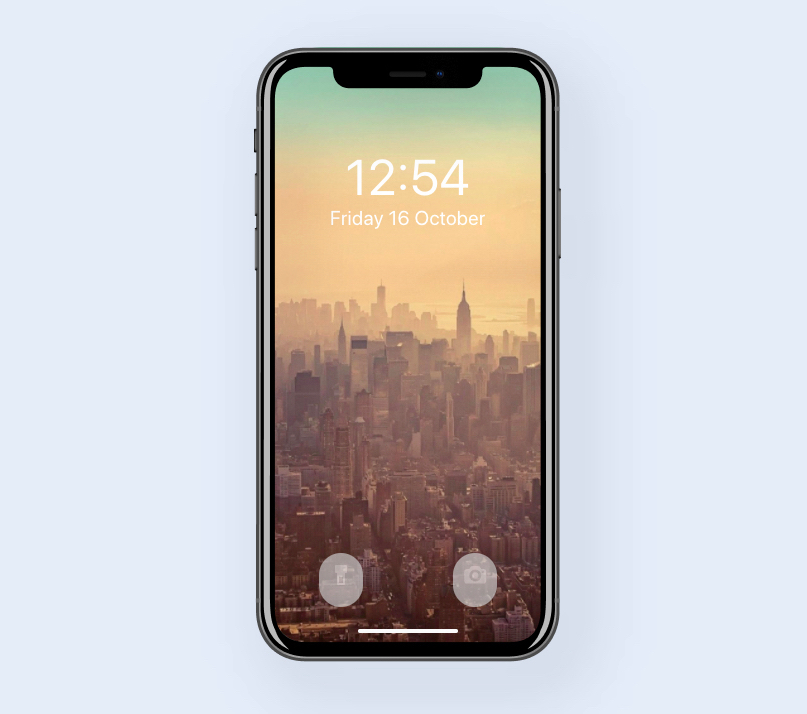
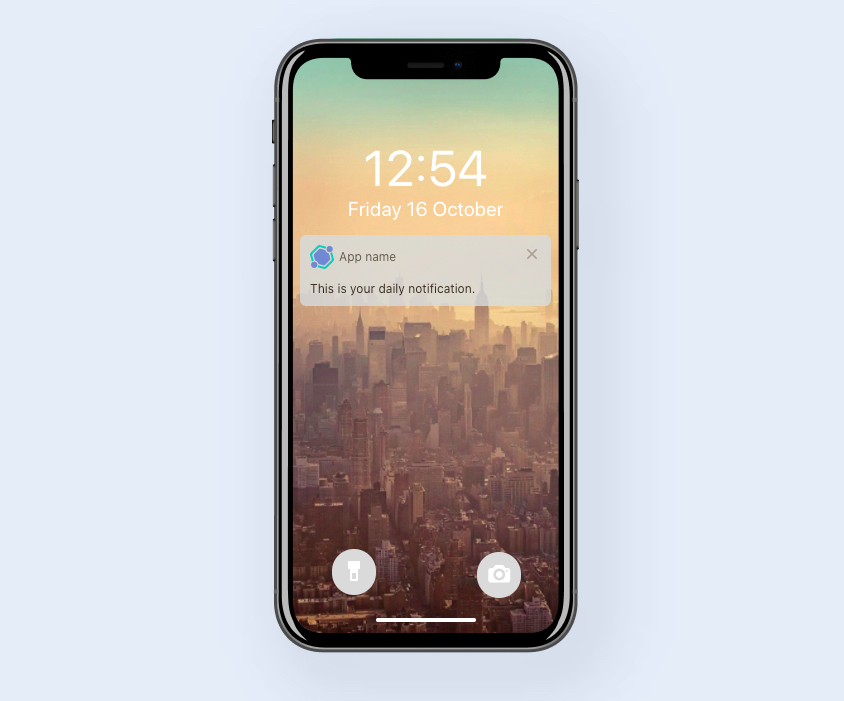
Completed week2- notification

Changed region(s): [[0.3098, 0.03, 0.7125, 0.9287], [0.5886, 0.6291, 0.6196, 0.689], [0.4957, 0.7789, 0.5266, 0.8088]]

diff --git a/src/components/week2/index.js b/src/components/week2/index.js
@@ -36,8 +36,6 @@ const Intersection = styled.div`
    position: relative;
    display: flex;
    flex-direction: column;
-   justify-content: flex-start;
-   padding-top: 100px;
    width: 100%;
    height: 100%;
 `;
@@ -47,7 +45,7 @@ const StyledIphone = styled.img`
     position: absolute;
     top: 0;
     right: 0;
-    z-index: 5;
+    z-index: 0;
 `;
 
 const Wallpaper = styled.img`
@@ -60,6 +58,11 @@ const Wallpaper = styled.img`
     border-radius: 60px;
     object-fit: cover;
 `; 
+
+const TopSection = styled.div`
+    padding-top:100px;
+`;
+
 const ClockDiv = styled.div`
     position:relative;
     font-size: 50px;
@@ -87,15 +90,22 @@ const FunctionButtonsSection = styled.div`
 const CameraButton = styled.a`
     padding: 10px 10px;
     background-color: #dadada;
-    opacity: 0.6;
+    // opacity: 0.6;
     border-radius: 100px;
+    line-height: 100%;
+    position: absolute;
+    bottom: 55px;
+    right: 19%;
 `;
 
 const FlashlightButton = styled.a`
     padding: 10px 10px;
     background-color: #dadada;
-    opacity: 0.6;
     border-radius: 100px;
+    line-height: 100%;
+    position: absolute;
+    bottom: 58px;
+    right: 66%;
 `;
 
 const Camera = styled.img`
@@ -107,7 +117,6 @@ const Camera = styled.img`
 const Flashlight = styled.img`
     width: 24px;
     height: 24px;
-    opacity:1;
 `;
 
 function Week2() {
@@ -121,15 +130,17 @@ function Week2() {
                     <StyledIphone src={iphone} className="iphone"></StyledIphone>
                     <Wallpaper src={wallpaper}></Wallpaper>
                     <Intersection className="intersection">
-                       <ClockDiv id="time">12:54</ClockDiv>
-                       <DateDiv id="date">Friday 16 October</DateDiv>
-                       <Notification />
+                        <TopSection>
+                            <ClockDiv id="time">12:54</ClockDiv>
+                            <DateDiv id="date">Friday 16 October</DateDiv>
+                        </TopSection>
+                        <Notification />
                        <FunctionButtonsSection>
-                            <FlashlightButton href="/#" className="flashlight-button">
-                                <Flashlight src={flashlight} alt="flashlight"></Flashlight>
+                            <FlashlightButton href="#" className="flashlight-button">
+                                <Flashlight src={flashlight} className="function-icon" alt="flashlight"></Flashlight>
                             </FlashlightButton>
-                            <CameraButton href="/#" className="camera-button">
-                                <Camera src={camera} alt="camera"></Camera>
+                            <CameraButton href="#" className="camera-button">
+                                <Camera src={camera} alt="camera" className="function-icon"></Camera>
                             </CameraButton>
                        </FunctionButtonsSection>
                     </Intersection>

diff --git a/src/App.css b/src/App.css
@@ -147,16 +147,20 @@ a:active {
     height: 4px;
     background-color: white;
     border-radius: 12px;
-    bottom: 18%;
+    bottom: 5%;
     left: calc(50% - 50px);
     position: absolute;
 
 }
 
 .flashlight-button:hover{
+  transform: scale(1.05);
   transition: ease-in-out;
-  opacity: 1;
-  background-color: white;
+}
+
+.camera-button:hover{
+		transform: scale(1.05);
+    transition: ease-in-out;
 }
 
 .close:hover {

diff --git a/src/components/week2/notification.js b/src/components/week2/notification.js
@@ -53,8 +53,6 @@ const Close = styled.a`
 `;
 
 
-
-
 const Notification = () => {
 
     const [visible, setVisible] = useState(true);
